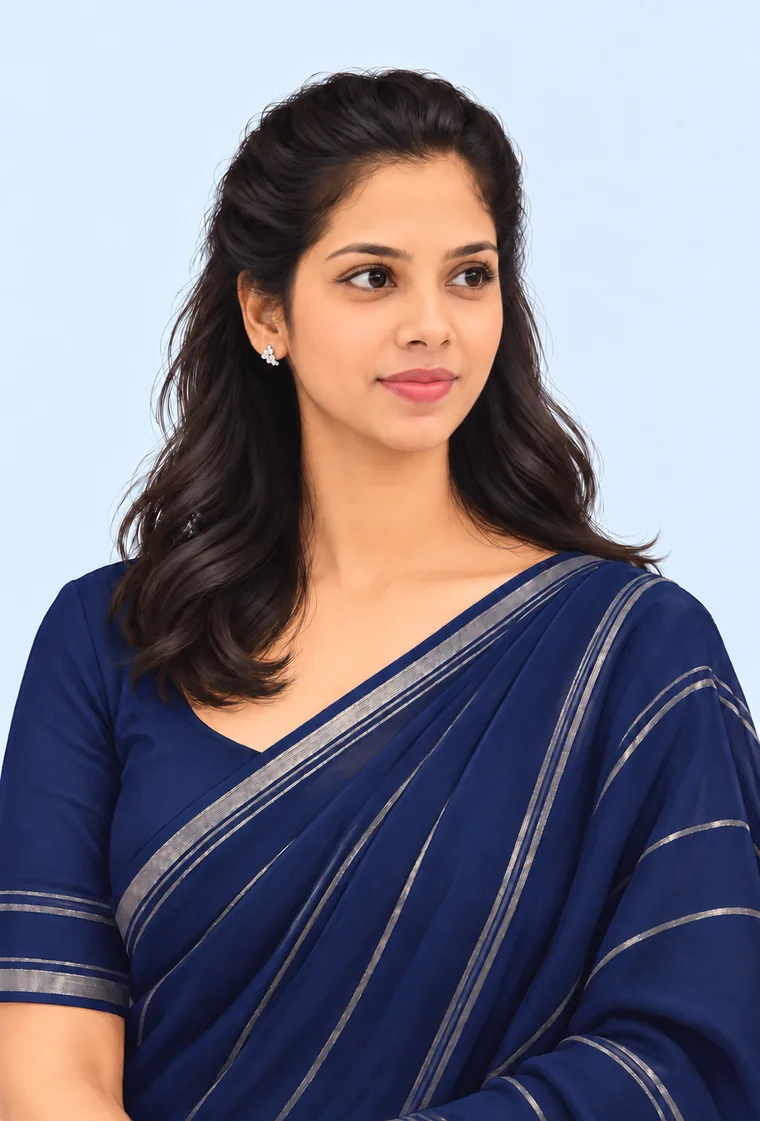
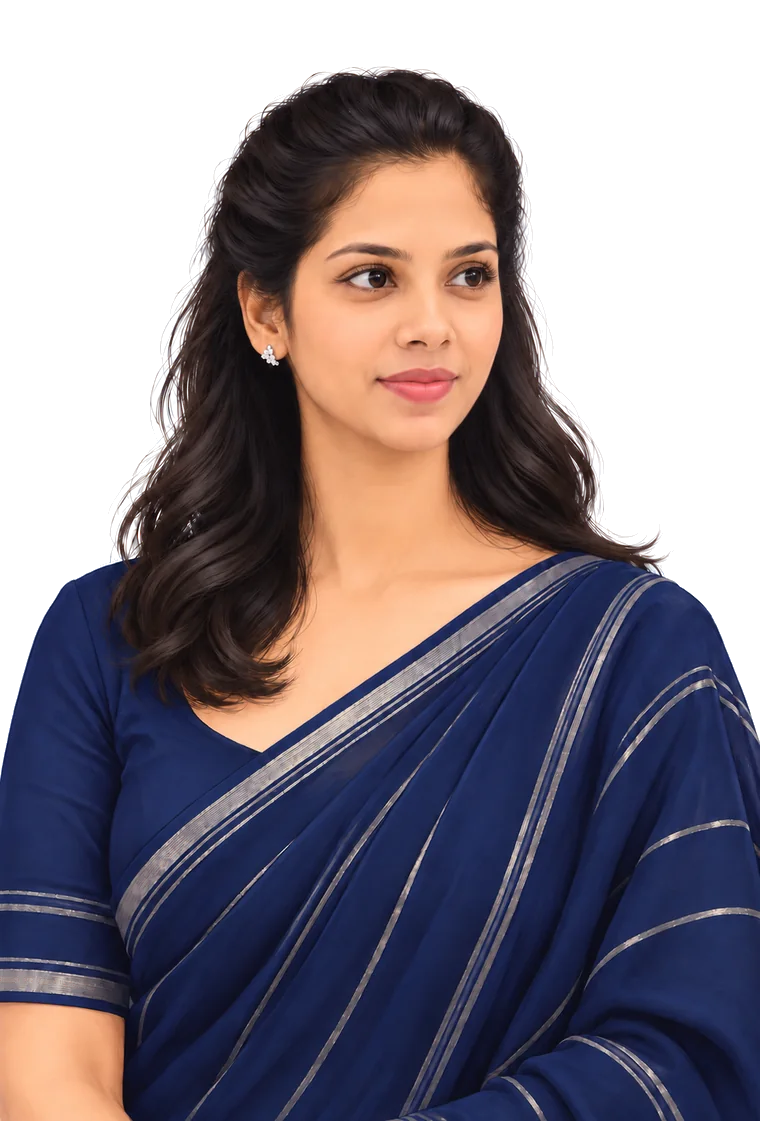
Cut the backdrop out of the head-turn frames
The frames were opaque rectangles with a pale studio backdrop, so they
covered the giant name behind her. tools/cutout_frames.py keys the
backdrop out by colour (no ML model) and also clears the light glow the
generator drew around her hair, which showed as a white halo over the
dark letters. Drops the arch clip and drop-shadow on the portrait: the
shadow blurred the whole frame box into a lighter rectangle.

diff --git a/index.html b/index.html
@@ -73,9 +73,9 @@ main, .bar, footer { position: relative; z-index: 1; }
 }
 .portrait-stage { position: absolute; left: 50%; bottom: 0; translate: -50% 0; width: clamp(300px, min(40vw, calc((100vh - 225px) / 1.475)), 540px); max-width: 100%; z-index: 2; perspective: 900px; touch-action: pan-y; -webkit-user-select: none; user-select: none; -webkit-touch-callout: none; }
 .portrait {
-  display: block; width: 100%; height: auto; border-radius: 48% 48% 0 0; transform-origin: 50% 100%;
+  /* frames are transparent cutouts, so no arch clip or drop-shadow (the shadow blurred the whole frame box) */
+  display: block; width: 100%; height: auto; transform-origin: 50% 100%;
   -webkit-mask-image: linear-gradient(to bottom, #000 70%, transparent 98%); mask-image: linear-gradient(to bottom, #000 70%, transparent 98%);
-  filter: drop-shadow(0 18px 30px rgba(13, 27, 51, .25));
 }
 .motion .portrait { animation: rise 1.1s cubic-bezier(.2, .8, .2, 1) both; }
 .turn-hint {

diff --git a/tools/cutout_frames.py b/tools/cutout_frames.py
@@ -1,0 +1,151 @@
+"""Cut the plain studio background out of the head-turn frames, so the giant name shows behind her.
+
+The Codex frames sit on a smooth pale-blue background, which is far from her hair, skin and the navy
+saree in colour. So no ML model is needed:
+
+  1. Model the background as a smooth colour gradient, fitted to the frame's top and side edges.
+  2. Measure how much darker each pixel is than that gradient and turn it into a soft alpha
+     (soft so hair wisps fade instead of getting a hard edge; lighter-than-background glow is dropped).
+  3. Only remove background that is connected to the frame edge, so light details inside her
+     (eye whites, silver stripes, earrings) are never punched out.
+  4. Pull the leftover blue tint out of semi-transparent edge pixels (decontamination).
+
+Reads the frames listed in assets/turn/frames.json ("source_frames") from the Codex folder and
+writes assets/turn/000.webp ... plus front.webp, with transparency.
+
+Usage (from the repo root):
+    python tools/cutout_frames.py "C:\\path\\to\\navy-turn"
+    python tools/cutout_frames.py "C:\\path\\to\\navy-turn" --preview out.png   # checkerboard sheet
+
+Needs numpy and Pillow.
+"""
+import argparse
+import json
+from pathlib import Path
+
+import numpy as np
+from PIL import Image
+
+ROOT = Path(__file__).resolve().parent.parent
+TURN = ROOT / "assets" / "turn"
+WIDTH = 760
+
+# colour distance (0-255 RGB space) below LO is pure background, above HI is pure subject
+LO, HI = 18.0, 46.0
+
+
+def fit_background(rgb: np.ndarray) -> np.ndarray:
+    """Least-squares quadratic colour surface fitted to a band along the top and side edges."""
+    h, w, _ = rgb.shape
+    band = max(8, w // 40)
+    mask = np.zeros((h, w), bool)
+    mask[:band, :] = True
+    mask[: int(h * .55), :band] = True
+    mask[: int(h * .55), -band:] = True
+    ys, xs = np.nonzero(mask)
+    # drop edge pixels that are clearly not background (hair touching the edge)
+    vals = rgb[ys, xs]
+    keep = vals.mean(1) > 170
+    ys, xs, vals = ys[keep], xs[keep], vals[keep]
+    def basis(y, x):
+        y = y / h; x = x / w
+        return np.stack([np.ones_like(x), x, y, x * x, y * y, x * y], 1)
+    coef, *_ = np.linalg.lstsq(basis(ys, xs), vals, rcond=None)
+    gy, gx = np.mgrid[0:h, 0:w]
+    return (basis(gy.ravel().astype(float), gx.ravel().astype(float)) @ coef).reshape(h, w, 3)
+
+
+def box_mean(a: np.ndarray, r: int) -> np.ndarray:
+    """Mean of `a` over a (2r+1)x(2r+1) window, via an integral image (edges clamped)."""
+    p = np.pad(a, r + 1, mode="edge")
+    s = p.cumsum(0).cumsum(1)
+    k = 2 * r + 1
+    h, w = a.shape
+    tot = s[k:k + h, k:k + w] - s[:h, k:k + w] - s[k:k + h, :w] + s[:h, :w]
+    return tot / (k * k)
+
+
+def edge_connected(candidate: np.ndarray) -> np.ndarray:
+    """Pixels of `candidate` reachable from the top/left/right border (iterative geodesic dilation)."""
+    seed = np.zeros_like(candidate)
+    seed[0, :] = candidate[0, :]
+    seed[:, 0] = candidate[:, 0]
+    seed[:, -1] = candidate[:, -1]
+    reach = seed
+    while True:
+        grown = reach.copy()
+        grown[1:, :] |= reach[:-1, :]
+        grown[:-1, :] |= reach[1:, :]
+        grown[:, 1:] |= reach[:, :-1]
+        grown[:, :-1] |= reach[:, 1:]
+        grown &= candidate
+        if (grown == reach).all():
+            return reach
+        reach = grown
+
+
+def cutout(img: Image.Image) -> Image.Image:
+    img = img.convert("RGB")
+    img = img.resize((WIDTH, round(img.height * WIDTH / img.width)), Image.LANCZOS)
+    rgb = np.asarray(img, dtype=float)
+    bg = fit_background(rgb)
+    # Only count how much DARKER a pixel is than the background, per channel. Hair, skin and the
+    # saree are all darker than the pale studio backdrop in at least one channel, while the light
+    # glow the generator left around her hair is brighter, so it is treated as background
+    # (otherwise it shows as a white halo over the dark name behind her).
+    dist = np.sqrt((np.minimum(rgb - bg, 0) ** 2).sum(2))
+    alpha = np.clip((dist - LO) / (HI - LO), 0, 1)
+    # anything not connected to the edge through background-ish pixels stays fully opaque...
+    outside = edge_connected(alpha < 1)
+    alpha[~outside] = 1
+    # Hair edges: the generator drew a band of light grey/bluish strands around her hair outline,
+    # plus backdrop showing through gaps between strands. Real hair here is dark (~45 brightness), so
+    # treat any light, non-warm pixel as dark hair blended with the backdrop and take its alpha from
+    # how far it sits between the two. Skip anything near skin (eye whites, earrings, face highlights)
+    # or near the navy saree (its silver stripes).
+    r, b = rgb[..., 0], rgb[..., 2]
+    lum = rgb.mean(2)
+    skin = (r - b > 25) & (lum > 110)
+    navy = (b - r > 30) & (lum < 130)
+    away = (box_mean(skin.astype(float), 12) < 0.1) & (box_mean(navy.astype(float), 12) < 0.15)
+    light_cool = (b - r > -10) & (lum > 95)
+    HAIR_LUM = 45.0
+    mix = np.clip((bg.mean(2) - lum) / (bg.mean(2) - HAIR_LUM), 0, 1)
+    edge = away & light_cool
+    alpha[edge] = np.minimum(alpha[edge], mix[edge])
+    # decontaminate: remove the background's share from partly transparent pixels
+    a = alpha[..., None]
+    fg = np.where(a > 0.02, (rgb - (1 - a) * bg) / np.maximum(a, 0.02), rgb)
+    out = np.dstack([np.clip(fg, 0, 255), alpha * 255]).astype(np.uint8)
+    return Image.fromarray(out, "RGBA")
+
+
+def main() -> None:
+    ap = argparse.ArgumentParser(description=__doc__, formatter_class=argparse.RawDescriptionHelpFormatter)
+    ap.add_argument("source", type=Path, help="folder with the original 000.png ... frames")
+    ap.add_argument("--preview", type=Path, help="also write a checkerboard contact sheet here")
+    args = ap.parse_args()
+
+    meta = json.loads((TURN / "frames.json").read_text(encoding="utf-8"))
+    frames = []
+    for n, i in enumerate(meta["source_frames"]):
+        im = cutout(Image.open(args.source / f"{i:03d}.png"))
+        im.save(TURN / f"{n:03d}.webp", "WEBP", quality=84, alpha_quality=90, method=6)
+        if n == meta["front"]:
+            im.save(TURN / "front.webp", "WEBP", quality=84, alpha_quality=90, method=6)
+        frames.append(im)
+        print(f"{n:03d}.webp  <- codex {i:02d}  {(TURN / f'{n:03d}.webp').stat().st_size // 1024} KB")
+
+    if args.preview:
+        tw = 260; th = round(frames[0].height * tw / frames[0].width)
+        sheet = Image.new("RGB", (tw * len(frames), th), "white")
+        yy, xx = np.mgrid[0:th, 0:tw]
+        checker = Image.fromarray(np.where(((yy // 12 + xx // 12) % 2)[..., None], 200, 255).repeat(3, 2).astype(np.uint8))
+        for k, f in enumerate(frames):
+            tile = checker.copy(); tile.paste(f.resize((tw, th)), (0, 0), f.resize((tw, th)))
+            sheet.paste(tile, (k * tw, 0))
+        sheet.save(args.preview)
+
+
+if __name__ == "__main__":
+    main()

diff --git a/README.md b/README.md
@@ -32,7 +32,15 @@ Crop boxes are at the top of the script if a new photo needs reframing.
 
 The hero scrubs through 10 illustrated frames in `assets/turn/` (`000.webp … 009.webp`) as the cursor moves, or as you swipe on a phone. `frames.json` holds the count, the straight-on frame (`front`: 5) and each frame's head angle (`positions`, -1 left … +1 right). `front.webp` is shown before the script loads.
 
-The frames come from a 33-frame Codex set (2026-10-09, navy saree), converted from 1033×1523 PNG to 760 px WebP. Only 10 were kept (`source_frames` in `frames.json` lists the original numbers). The rest were dropped because 14 of them repeated the same strong left turn with slightly different faces, several front and right views were near-duplicates (24–28 are all about the same angle), and the last frame (32) has a different, longer face. The `positions` come from measuring how far each frame's face has moved from the front frame toward the far-left/far-right one, not from even spacing. To swap in a new set:
+The frames come from a 33-frame Codex set (2026-10-09, navy saree), converted from 1033×1523 PNG to 760 px WebP. Only 10 were kept (`source_frames` in `frames.json` lists the original numbers). The rest were dropped because 14 of them repeated the same strong left turn with slightly different faces, several front and right views were near-duplicates (24–28 are all about the same angle), and the last frame (32) has a different, longer face. The `positions` come from measuring how far each frame's face has moved from the front frame toward the far-left/far-right one, not from even spacing.
+
+The frames are transparent cutouts, so the giant name shows behind her. `tools/cutout_frames.py` keys out the plain studio backdrop by colour; there's no ML model, just numpy and Pillow. It also clears the light glow the generator drew around her hair, which otherwise shows as a white halo over the dark name. It reads the frames listed in `frames.json` (`source_frames`) from the Codex folder:
+
+```bash
+python tools/cutout_frames.py "C:\Users\MoeLustHer\Documents\Codex\2026-10-09\use-this-existing-interactive-portrait-c-2\outputs\janmitha-portfolio\assets\navy-turn" --preview check.png
+```
+
+To swap in a completely new set:
 
 ```bash
 pip install "rembg[cpu]" pillow
